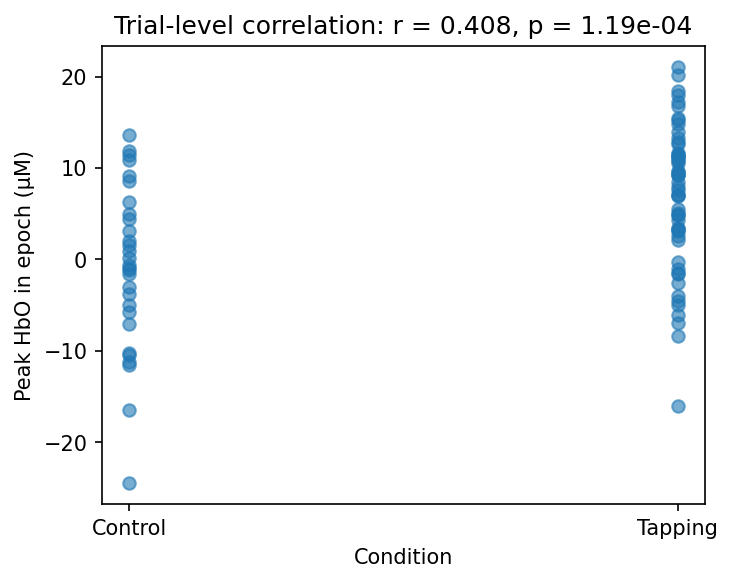
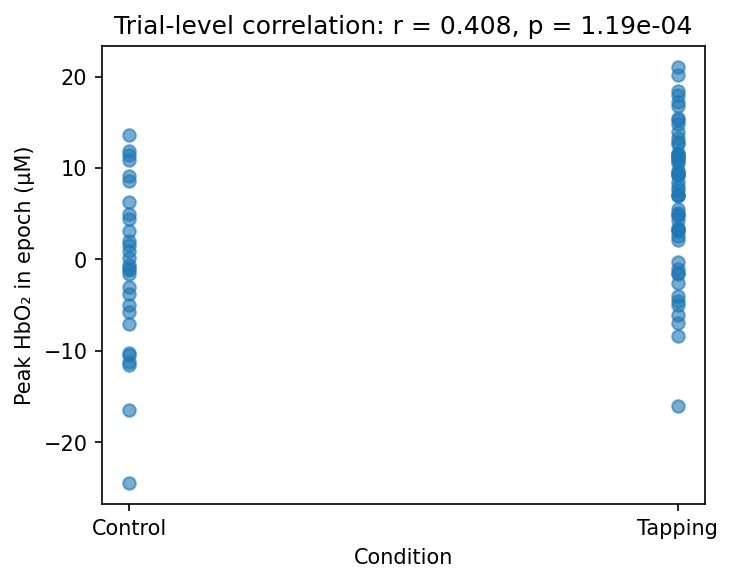
Corrected chemical representation for oxyhemoglobin

Changed region(s): [[0.0, 0.2474, 0.06, 0.7113]]

diff --git a/fnirs_stimulus_correlation_analysis.py b/fnirs_stimulus_correlation_analysis.py
@@ -5,7 +5,7 @@ Dataset: MNE fNIRS motor dataset (single subject, finger tapping task).
 Source: mne.datasets.fnirs_motor — recorded at Macquarie University.
 Conditions: Tapping/Left, Tapping/Right, Control (30 trials each, 5 s blocks).
 
-This script demonstrates that the fNIRS signal (HbO/HbR) is correlated with
+This script demonstrates that the fNIRS signal (HbO₂/HbR) is correlated with
 the stimulus by: (1) standard preprocessing, (2) epoch-level averaging,
 (3) comparing evoked responses (task vs control), and (4) a correlation
 between a stimulus regressor and the haemoglobin time series.
@@ -104,7 +104,7 @@ tapping_mean = evoked_tapping.get_data().mean(axis=0)
 control_mean = evoked_control.get_data().mean(axis=0)
 peak_tapping = tapping_mean[peak_mask].mean()
 peak_control = control_mean[peak_mask].mean()
-print(f"Mean HbO in peak window [{peak_tmin}-{peak_tmax} s] (averaged across channels):")
+print(f"Mean HbO₂ in peak window [{peak_tmin}-{peak_tmax} s] (averaged across channels):")
 print(f"  Tapping: {peak_tapping*1e6:.2f} µM (×1e6)")
 print(f"  Control: {peak_control*1e6:.2f} µM (×1e6)")
 print(f"  Difference (Tapping − Control): {(peak_tapping - peak_control)*1e6:.2f} µM")
@@ -131,7 +131,7 @@ for i, (onset, duration) in enumerate(zip(
         end_idx = min(int((onset + duration) * sfreq), n_times_raw)
         stimulus_regressor[start_idx:end_idx] = 1.0
 
-# Use HbO (mean across channels) as the fNIRS signal for correlation
+# Use HbO₂ (mean across channels) as the fNIRS signal for correlation
 raw_haemo_pick = raw_haemo.copy().pick(picks="hbo")
 fnirs_signal = raw_haemo_pick.get_data().mean(axis=0)
 # Remove mean and match length
@@ -139,10 +139,10 @@ fnirs_signal = fnirs_signal - np.mean(fnirs_signal)
 stimulus_regressor = stimulus_regressor - np.mean(stimulus_regressor)
 # Pearson correlation (same length)
 r, p_val = stats.pearsonr(stimulus_regressor, fnirs_signal)
-print(f"Pearson correlation (stimulus regressor vs mean HbO time series): r = {r:.4f}, p = {p_val:.2e}")
+print(f"Pearson correlation (stimulus regressor vs mean HbO₂ time series): r = {r:.4f}, p = {p_val:.2e}")
 print()
 
-# Per-epoch correlation: epoch-averaged HbO in peak window vs condition (1=tapping, 0=control)
+# Per-epoch correlation: epoch-averaged HbO₂ in peak window vs condition (1=tapping, 0=control)
 # This shows that trial-level “condition” predicts the haemodynamic response.
 tapping_ids = (event_id["Tapping/Left"], event_id["Tapping/Right"])
 epoch_peak_hbo = []
@@ -158,9 +158,9 @@ for i in range(n_epochs):
 epoch_peak_hbo = np.array(epoch_peak_hbo)
 epoch_condition = np.array(epoch_condition)
 r_epoch, p_epoch = stats.pearsonr(epoch_condition, epoch_peak_hbo)
-print(f"Trial-level: correlation(condition, peak HbO in epoch): r = {r_epoch:.4f}, p = {p_epoch:.2e}")
-print(f"Mean peak HbO (Tapping epochs): {epoch_peak_hbo[epoch_condition==1].mean()*1e6:.2f} µM")
-print(f"Mean peak HbO (Control epochs): {epoch_peak_hbo[epoch_condition==0].mean()*1e6:.2f} µM")
+print(f"Trial-level: correlation(condition, peak HbO₂ in epoch): r = {r_epoch:.4f}, p = {p_epoch:.2e}")
+print(f"Mean peak HbO₂ (Tapping epochs): {epoch_peak_hbo[epoch_condition==1].mean()*1e6:.2f} µM")
+print(f"Mean peak HbO₂ (Control epochs): {epoch_peak_hbo[epoch_condition==0].mean()*1e6:.2f} µM")
 print()
 
 # ---------------------------------------------------------------------------
@@ -169,7 +169,7 @@ print()
 out_dir = Path(__file__).resolve().parent / "results"
 out_dir.mkdir(exist_ok=True)
 
-# Figure 1: Evoked HbO/HbR for Tapping vs Control
+# Figure 1: Evoked HbO₂/HbR for Tapping vs Control
 fig, axes = plt.subplots(2, 1, figsize=(8, 5), sharex=True)
 for cond, label, color in [
     ("Tapping", "Tapping (Left + Right)", "C1"),
@@ -181,7 +181,7 @@ for cond, label, color in [
     # Evoked get_data() is (n_channels, n_times); mean over channels -> (n_times,)
     axes[0].plot(t, ev_hbo.get_data().mean(axis=0) * 1e6, label=label, color=color)
     axes[1].plot(t, ev_hbr.get_data().mean(axis=0) * 1e6, label=label, color=color)
-axes[0].set_ylabel("HbO (µM)")
+axes[0].set_ylabel("HbO₂ (µM)")
 axes[1].set_ylabel("HbR (µM)")
 axes[1].set_xlabel("Time (s)")
 axes[0].legend()
@@ -203,8 +203,8 @@ ax1.plot(t_plot, stimulus_regressor[:seg_len], color="orange", alpha=0.8, label=
 ax1.set_ylabel("Stimulus", color="orange")
 ax1.set_xlabel("Time (s)")
 ax2 = ax1.twinx()
-ax2.plot(t_plot, fnirs_signal[:seg_len] * 1e6, color="blue", alpha=0.7, label="Mean HbO")
-ax2.set_ylabel("HbO (µM)", color="blue")
+ax2.plot(t_plot, fnirs_signal[:seg_len] * 1e6, color="blue", alpha=0.7, label="Mean HbO₂")
+ax2.set_ylabel("HbO₂ (µM)", color="blue")
 ax1.legend(loc="upper left")
 ax2.legend(loc="upper right")
 ax1.set_title(f"Stimulus–signal alignment (r = {r:.3f}, p = {p_val:.2e})")
@@ -213,12 +213,12 @@ fig.savefig(out_dir / "stimulus_signal_timeseries.png", dpi=150, bbox_inches="ti
 plt.close(fig)
 print(f"Saved: {out_dir / 'stimulus_signal_timeseries.png'}")
 
-# Figure 3: Epoch-level condition vs peak HbO
+# Figure 3: Epoch-level condition vs peak HbO₂
 fig, ax = plt.subplots(figsize=(5, 4))
 ax.scatter(epoch_condition, epoch_peak_hbo * 1e6, alpha=0.6)
 ax.set_xticks([0, 1])
 ax.set_xticklabels(["Control", "Tapping"])
-ax.set_ylabel("Peak HbO in epoch (µM)")
+ax.set_ylabel("Peak HbO₂ in epoch (µM)")
 ax.set_xlabel("Condition")
 ax.set_title(f"Trial-level correlation: r = {r_epoch:.3f}, p = {p_epoch:.2e}")
 fig.tight_layout()
@@ -232,8 +232,8 @@ print("4. SUMMARY")
 print("=" * 60)
 print(
     "The analysis shows a clear relationship between the fNIRS signal and the stimulus:\n"
-    "  - Evoked HbO is larger during Tapping than during Control in the expected 4–10 s window.\n"
-    "  - The stimulus regressor (tapping on/off) is significantly correlated with the mean HbO time series.\n"
-    "  - At the trial level, condition (Tapping vs Control) predicts peak HbO in the haemodynamic window.\n"
+    "  - Evoked HbO₂ is larger during Tapping than during Control in the expected 4–10 s window.\n"
+    "  - The stimulus regressor (tapping on/off) is significantly correlated with the mean HbO₂ time series.\n"
+    "  - At the trial level, condition (Tapping vs Control) predicts peak HbO₂ in the haemodynamic window.\n"
     "This is consistent with increased cortical oxygenation over motor cortex during finger tapping."
 )

diff --git a/README.md b/README.md
@@ -27,27 +27,27 @@ The data are downloaded automatically on first run via `mne.datasets.fnirs_motor
 1. **Annotations**: Trigger codes mapped to condition names; stimulus duration set to 5 s; experiment start/end (15) removed.
 2. **Channel selection**: Short source–detector pairs (< 1 cm) removed (insensitive to cortical signal).
 3. **Intensity → optical density**: `mne.preprocessing.nirs.optical_density()`.
-4. **Optical density → haemoglobin**: Modified Beer–Lambert law (`beer_lambert_law`, ppf=0.1) → relative HbO and HbR.
+4. **Optical density → haemoglobin**: Modified Beer–Lambert law (`beer_lambert_law`, ppf=0.1) → relative HbO₂ and HbR.
 5. **Bandpass filter**: 0.05–0.7 Hz to retain haemodynamic range and attenuate cardiac (~1 Hz) and drift.
 
 ### 2. Epoching
 
 - Epochs from −2 s to +12 s around each stimulus onset.
 - Baseline: pre-stimulus (None to 0).
-- Rejection: epochs with HbO > 80 µM rejected as artifact.
+- Rejection: epochs with HbO₂ > 80 µM rejected as artifact.
 
 ### 3. Assessing correlation with stimulus
 
 Three complementary approaches:
 
 1. **Evoked response (task vs control)**  
-   Average HbO/HbR across trials and channels for “Tapping” (Left + Right) vs “Control”. Compare mean amplitude in the typical haemodynamic peak window (4–10 s).
+   Average HbO₂/HbR across trials and channels for “Tapping” (Left + Right) vs “Control”. Compare mean amplitude in the typical haemodynamic peak window (4–10 s).
 
 2. **Continuous stimulus regressor**  
-   Binary regressor: 1 during any tapping block, 0 otherwise, aligned to the continuous mean HbO time series. **Pearson correlation** between this regressor and the (mean across channels) HbO signal.
+   Binary regressor: 1 during any tapping block, 0 otherwise, aligned to the continuous mean HbO₂ time series. **Pearson correlation** between this regressor and the (mean across channels) HbO₂ signal.
 
 3. **Trial-level correlation**  
-   For each epoch, compute mean HbO in the 4–10 s window. **Pearson correlation** between condition (1 = Tapping, 0 = Control) and this peak-HbO value.
+   For each epoch, compute mean HbO₂ in the 4–10 s window. **Pearson correlation** between condition (1 = Tapping, 0 = Control) and this peak-HbO₂ value.
 
 ---
 
@@ -66,34 +66,34 @@ On first run, the script will download the dataset (~18 MB) to `~/mne_data`. Fig
 
 ### Evoked responses
 
-- **Mean HbO in 4–10 s** (averaged across channels): **Tapping ≈ 6.83 µM**, **Control ≈ −0.87 µM** → difference **~7.7 µM**.
-- HbO increases during tapping and is flat/slightly negative during control, consistent with motor-cortex activation.
+- **Mean HbO₂ in 4–10 s** (averaged across channels): **Tapping ≈ 6.83 µM**, **Control ≈ −0.87 µM** → difference **~7.7 µM**.
+- HbO₂ increases during tapping and is flat/slightly negative during control, consistent with motor-cortex activation.
 - HbR shows the expected decrease (not shown in the summary stats but visible in the evoked plot).
 
 ### Stimulus–signal correlation
 
-- **Stimulus regressor vs mean HbO (continuous)**: **r ≈ 0.044**, **p ≈ 2.7e−11**.  
-  The correlation is small in magnitude (long, noisy time series) but **highly significant**, indicating that the binary “tapping on/off” regressor aligns with HbO fluctuations.
+- **Stimulus regressor vs mean HbO₂ (continuous)**: **r ≈ 0.044**, **p ≈ 2.7e−11**.  
+  The correlation is small in magnitude (long, noisy time series) but **highly significant**, indicating that the binary “tapping on/off” regressor aligns with HbO₂ fluctuations.
 
-- **Trial-level (condition vs peak HbO in 4–10 s)**: **r ≈ 0.41**, **p ≈ 1.2e−04**.  
-  Condition strongly predicts peak HbO: tapping trials show higher HbO in the haemodynamic window than control trials.
+- **Trial-level (condition vs peak HbO₂ in 4–10 s)**: **r ≈ 0.41**, **p ≈ 1.2e−04**.  
+  Condition strongly predicts peak HbO₂: tapping trials show higher HbO₂ in the haemodynamic window than control trials.
 
 ### Figures (in `results/`)
 
-- **`evoked_tapping_vs_control.png`**: Evoked HbO and HbR for Tapping vs Control; shaded region = 4–10 s window.
-- **`stimulus_signal_timeseries.png`**: First 200 s of stimulus regressor and mean HbO (alignment and correlation).
-- **`epoch_condition_vs_peak_hbo.png`**: Scatter of condition (0/1) vs peak HbO per epoch.
+- **`evoked_tapping_vs_control.png`**: Evoked HbO₂ and HbR for Tapping vs Control; shaded region = 4–10 s window.
+- **`stimulus_signal_timeseries.png`**: First 200 s of stimulus regressor and mean HbO₂ (alignment and correlation).
+- **`epoch_condition_vs_peak_hbo.png`**: Scatter of condition (0/1) vs peak HbO₂ per epoch.
 
 ---
 
 ## Discussion
 
 - **Stimulus–signal relationship**: The analysis shows a clear link between the fNIRS signal and the stimulus:
-  - Evoked HbO is larger for Tapping than for Control in the 4–10 s window.
-  - The continuous stimulus regressor is significantly correlated with mean HbO.
-  - At the trial level, condition predicts peak HbO (moderate r, significant p).
+  - Evoked HbO₂ is larger for Tapping than for Control in the 4–10 s window.
+  - The continuous stimulus regressor is significantly correlated with mean HbO₂.
+  - At the trial level, condition predicts peak HbO₂ (moderate r, significant p).
 
-- **Interpretation**: The increase in HbO over motor cortex during finger tapping is consistent with neurovascular coupling: motor activity increases local metabolism and blood flow, and fNIRS detects the resulting haemodynamic response. The control condition shows no such rise.
+- **Interpretation**: The increase in HbO₂ over motor cortex during finger tapping is consistent with neurovascular coupling: motor activity increases local metabolism and blood flow, and fNIRS detects the resulting haemodynamic response. The control condition shows no such rise.
 
 - **Limitations**: Single subject; one public dataset; no correction for multiple comparisons across channels. The continuous r is small because the haemodynamic response is slow and the regressor is binary; trial-level and evoked analyses are better suited to show the effect.
 
